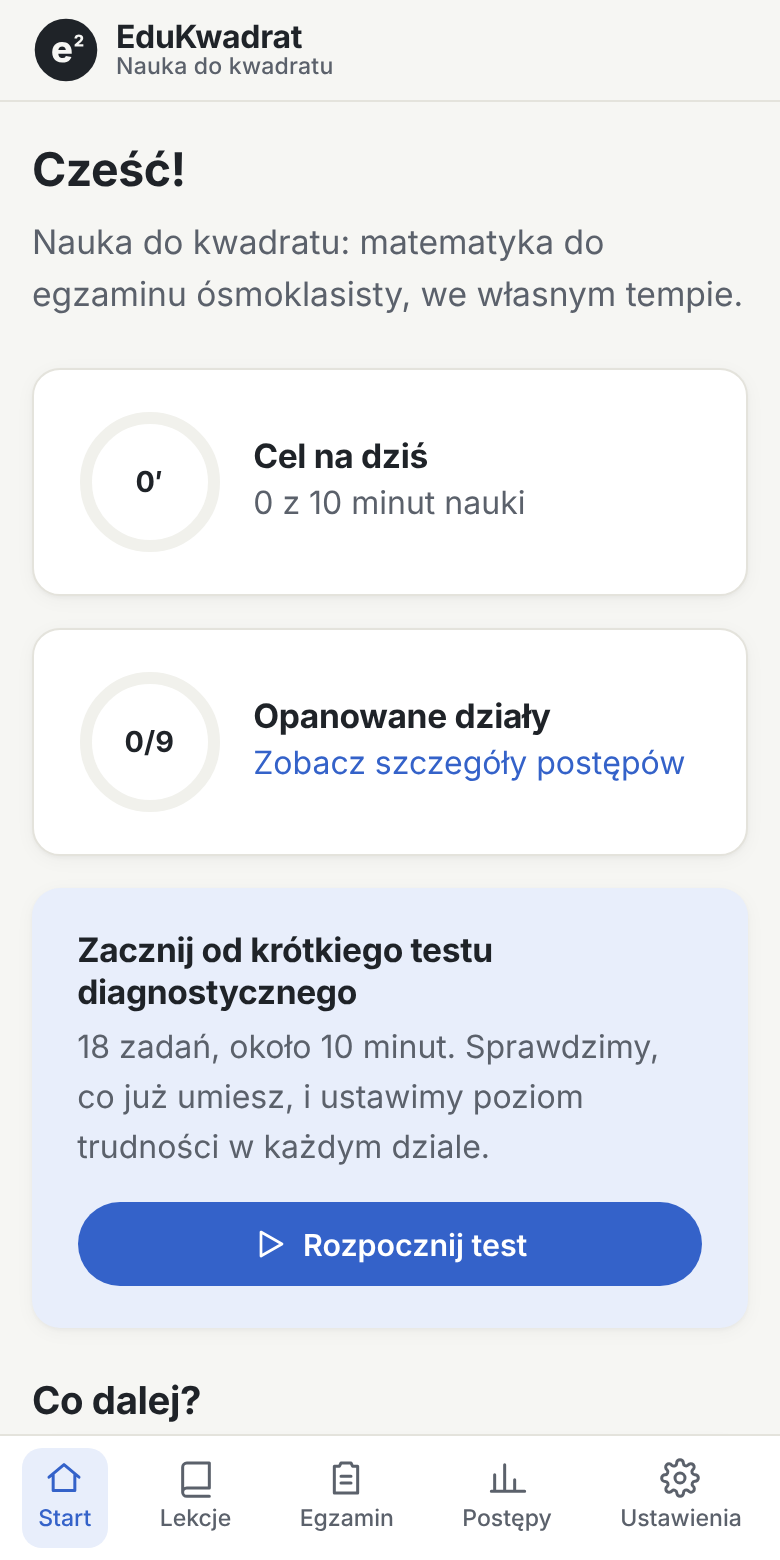
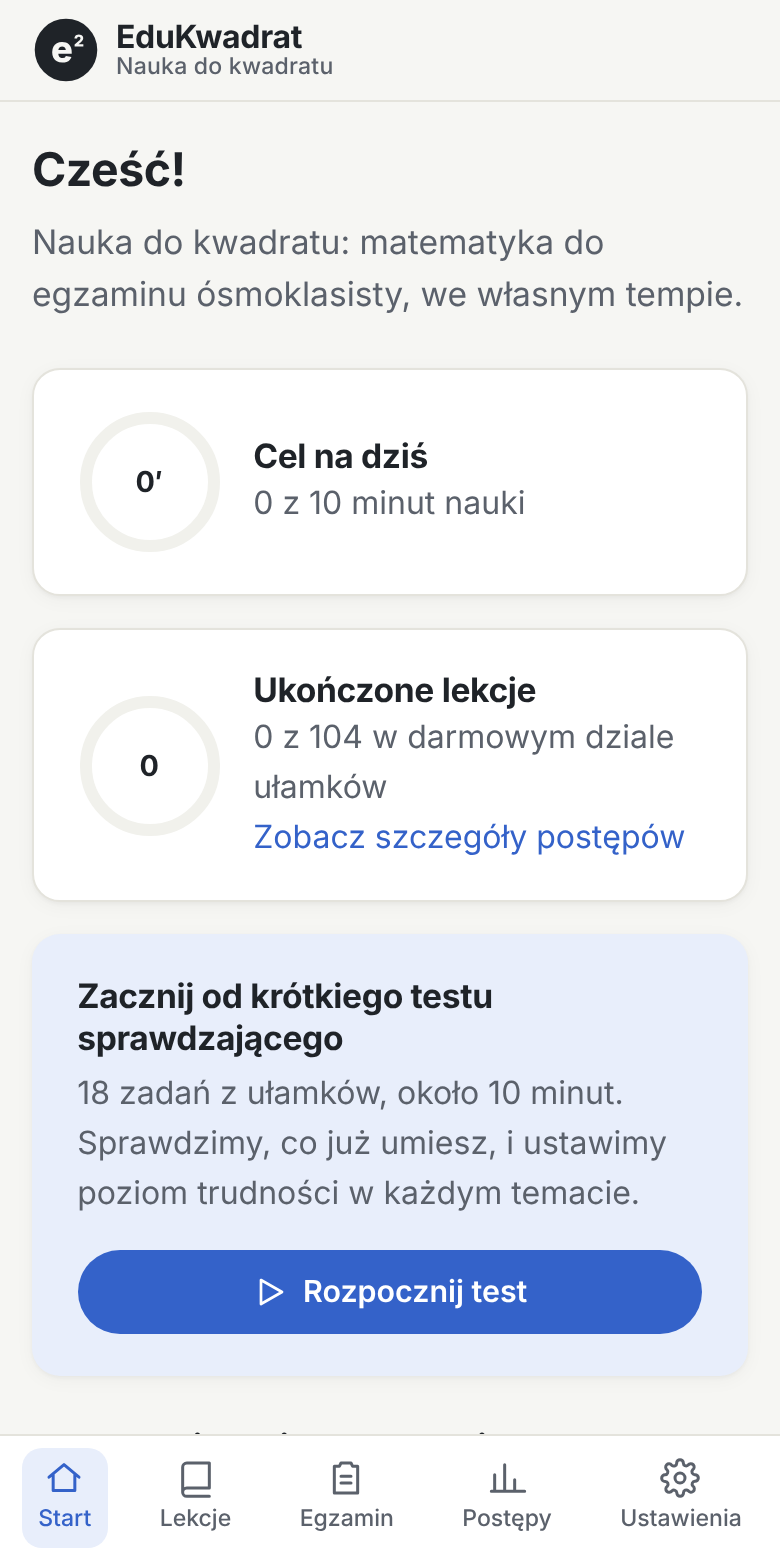
Drobne korekty: formularz zapisu bez pytania o kłopot, numeracja działów, „test sprawdzający”
- usunięte pole „Z czym dziecko ma największy kłopot?” (strona, strona.js, zapis.php, polityka)
- druga lista działów numerowana od 1
- „test diagnostyczny” zamieniony na „test sprawdzający” (strona, aplikacja, odznaka, README, zrzut ekranu)
- karta testu z powrotem nad listą działów na ekranie Start

Claude-Session: https://claude.ai/code/session_0163Z8QpDp9crVsGoLsC9bDR

diff --git a/landing/index.html b/landing/index.html
@@ -414,7 +414,7 @@ table.compare { width: 100%; min-width: 560px; border-collapse: collapse; font-v
       </div>
       <figure class="shot" style="margin:0">
         <div class="phone">
-          <img src="img/ekran-start.png" width="780" height="1560" alt="Ekran startowy EduKwadratu: cel na dziś 10 minut nauki, licznik opanowanych działów 0 z 9 i zaproszenie do testu diagnostycznego.">
+          <img src="img/ekran-start.png" width="780" height="1560" alt="Ekran startowy EduKwadratu: cel na dziś 10 minut nauki, licznik ukończonych lekcji i zaproszenie do krótkiego testu sprawdzającego.">
         </div>
         <figcaption class="note note-right" aria-hidden="true">
           <svg viewBox="0 0 64 40"><path d="M4 8c18 0 34 6 50 22"/><path d="M44 30l10 0 0-10"/></svg>
@@ -492,20 +492,20 @@ table.compare { width: 100%; min-width: 560px; border-collapse: collapse; font-v
             <li><span class="n">8.</span><span class="t">Kolejność działań</span><span class="dots"></span></li>
             <li><span class="n">9.</span><span class="t">Zadania tekstowe</span><span class="dots"></span></li>
           </ol>
-          <p class="toc-note">Do tego test diagnostyczny i próbny arkusz w stylu egzaminu.</p>
+          <p class="toc-note">Do tego test sprawdzający i próbny arkusz w stylu egzaminu.</p>
         </div>
         <div class="toc">
           <h3><span>Pozostałe działy</span><span class="s s-ready">gotowe</span></h3>
           <ol>
-            <li><span class="n">10.</span><span class="t">Liczby i działania, podzielność</span><span class="dots"></span></li>
-            <li><span class="n">11.</span><span class="t">Procenty</span><span class="dots"></span></li>
-            <li><span class="n">12.</span><span class="t">Potęgi i pierwiastki</span><span class="dots"></span></li>
-            <li><span class="n">13.</span><span class="t">Wyrażenia algebraiczne</span><span class="dots"></span></li>
-            <li><span class="n">14.</span><span class="t">Równania, proporcje, prędkość</span><span class="dots"></span></li>
-            <li><span class="n">15.</span><span class="t">Geometria płaska</span><span class="dots"></span></li>
-            <li><span class="n">16.</span><span class="t">Pitagoras i układ współrzędnych</span><span class="dots"></span></li>
-            <li><span class="n">17.</span><span class="t">Graniastosłupy i ostrosłupy</span><span class="dots"></span></li>
-            <li><span class="n">18.</span><span class="t">Statystyka i prawdopodobieństwo</span><span class="dots"></span></li>
+            <li><span class="n">1.</span><span class="t">Liczby i działania, podzielność</span><span class="dots"></span></li>
+            <li><span class="n">2.</span><span class="t">Procenty</span><span class="dots"></span></li>
+            <li><span class="n">3.</span><span class="t">Potęgi i pierwiastki</span><span class="dots"></span></li>
+            <li><span class="n">4.</span><span class="t">Wyrażenia algebraiczne</span><span class="dots"></span></li>
+            <li><span class="n">5.</span><span class="t">Równania, proporcje, prędkość</span><span class="dots"></span></li>
+            <li><span class="n">6.</span><span class="t">Geometria płaska</span><span class="dots"></span></li>
+            <li><span class="n">7.</span><span class="t">Pitagoras i układ współrzędnych</span><span class="dots"></span></li>
+            <li><span class="n">8.</span><span class="t">Graniastosłupy i ostrosłupy</span><span class="dots"></span></li>
+            <li><span class="n">9.</span><span class="t">Statystyka i prawdopodobieństwo</span><span class="dots"></span></li>
             <li><span class="n">+</span><span class="t">Konto i postępy na każdym urządzeniu</span><span class="dots"></span><span class="s s-soon">w przygotowaniu</span></li>
           </ol>
         </div>
@@ -559,18 +559,6 @@ table.compare { width: 100%; min-width: 560px; border-collapse: collapse; font-v
         <div class="field">
           <label for="email">Twój e-mail</label>
           <input id="email" name="email" type="email" autocomplete="email" inputmode="email" required placeholder="imie@przyklad.pl">
-        </div>
-        <div class="field">
-          <label for="topic">Z czym dziecko ma największy kłopot?</label>
-          <select id="topic" name="topic">
-            <option value="">Wybierz (nieobowiązkowe)</option>
-            <option>Ułamki</option>
-            <option>Procenty</option>
-            <option>Równania i wyrażenia</option>
-            <option>Geometria</option>
-            <option>Zadania tekstowe</option>
-            <option>Wszystko po trochu</option>
-          </select>
         </div>
         <label class="check" for="consent">
           <input id="consent" name="consent" type="checkbox" required>

diff --git a/src/screens/Home.tsx b/src/screens/Home.tsx
@@ -61,6 +61,21 @@ export function Home() {
         </Card>
       </div>
 
+      {!progress.diagnosticDone && (
+        <Card className="callout">
+          <div className="callout-icon">
+            <Icon name="compass" size={26} />
+          </div>
+          <div className="callout-body">
+            <h3>Zacznij od krótkiego testu sprawdzającego</h3>
+            <p className="muted">18 zadań z ułamków, około 10 minut. Sprawdzimy, co już umiesz, i ustawimy poziom trudności w każdym temacie.</p>
+          </div>
+          <Button variant="primary" href={href.diagnostic} icon="play">
+            Rozpocznij test
+          </Button>
+        </Card>
+      )}
+
       <section>
         <h2>Wszystkie działy egzaminu</h2>
         <div className="zone-grid">
@@ -101,21 +116,6 @@ export function Home() {
           })}
         </div>
       </section>
-
-      {!progress.diagnosticDone && (
-        <Card className="callout">
-          <div className="callout-icon">
-            <Icon name="compass" size={26} />
-          </div>
-          <div className="callout-body">
-            <h3>Ułamki: zacznij od krótkiego testu</h3>
-            <p className="muted">18 zadań, około 10 minut. Sprawdzimy, co już umiesz, i ustawimy poziom trudności w każdym dziale.</p>
-          </div>
-          <Button variant="primary" href={href.diagnostic} icon="play">
-            Rozpocznij test
-          </Button>
-        </Card>
-      )}
 
       <section>
         <h2>Co dalej w ułamkach?</h2>

diff --git a/src/state/badges.ts b/src/state/badges.ts
@@ -5,7 +5,7 @@ export type Badge = { id: string; icon: string; name: string; description: strin
 
 export const BADGES: Badge[] = [
   { id: 'first-step', icon: '🌱', name: 'Pierwszy krok', description: 'Rozwiąż pierwsze zadanie.' },
-  { id: 'diagnostic', icon: '🧭', name: 'Znam swój start', description: 'Ukończ test diagnostyczny.' },
+  { id: 'diagnostic', icon: '🧭', name: 'Znam swój start', description: 'Ukończ test sprawdzający.' },
   { id: 'theory-3', icon: '📖', name: 'Czytelnik', description: 'Przeczytaj teorię z trzech działów.' },
   { id: 'goal', icon: '🎯', name: 'Cel dnia', description: 'Osiągnij dzienny cel nauki.' },
   { id: 'days-5', icon: '📅', name: 'Systematyczność', description: 'Ucz się w 5 różnych dniach (nie muszą być pod rząd).' },

diff --git a/landing/polityka-prywatnosci.html b/landing/polityka-prywatnosci.html
@@ -28,7 +28,7 @@
       <tbody>
         <tr>
           <td>Zapis na przedsprzedaż (formularz na stronie)</td>
-          <td>adres e-mail; opcjonalnie dział, z którym dziecko ma kłopot</td>
+          <td>adres e-mail</td>
           <td>wysłanie e-maila z linkiem potwierdzającym zapis, a po potwierdzeniu jednej wiadomości o starcie pełnej wersji z linkiem do zakupu; zgoda (art. 6 ust. 1 lit. a RODO) oraz zgoda na otrzymywanie informacji handlowej drogą elektroniczną</td>
           <td>do wysłania tej wiadomości, nie dłużej niż do 31 maja 2027 r., albo do wycofania zgody, jeśli nastąpi wcześniej; adres niepotwierdzony usuwamy automatycznie po 7 dniach</td>
         </tr>

diff --git a/src/screens/Diagnostic.tsx b/src/screens/Diagnostic.tsx
@@ -81,7 +81,7 @@ export function Diagnostic() {
     return (
       <div className="page">
         <header className="page-head">
-          <h1>Test diagnostyczny</h1>
+          <h1>Test sprawdzający</h1>
           <p className="lead">Sprawdźmy, od czego zacząć.</p>
         </header>
         <Card>
@@ -143,7 +143,7 @@ export function Diagnostic() {
     <div className="page practice">
       <div className="practice-head">
         <div className="practice-title">
-          <h1>Test diagnostyczny</h1>
+          <h1>Test sprawdzający</h1>
         </div>
         <div className="session-progress">
           <div className="session-track">

diff --git a/landing/strona.js b/landing/strona.js
@@ -57,7 +57,7 @@
     fetch(FORM_ENDPOINT, {
       method: 'POST',
       headers: { 'Content-Type': 'application/json', 'Accept': 'application/json' },
-      body: JSON.stringify({ email: email, topic: form.topic.value, consent: true, strona: form.strona.value })
+      body: JSON.stringify({ email: email, consent: true, strona: form.strona.value })
     }).then(function (r) {
       return r.json().catch(function () { return {}; }).then(function (d) {
         if (!r.ok || !d.ok) { say(d.wiadomosc || 'Nie udało się zapisać. Spróbuj jeszcze raz za kilka minut.', 'err'); return; }

diff --git a/src/content/tasks/index.ts b/src/content/tasks/index.ts
@@ -104,7 +104,7 @@ export function toChoice(task: Task, rng: Rng): Task | null {
   };
 }
 
-/** Test diagnostyczny: po 2 zadania z każdego działu (poziom 1 i 2). */
+/** Test sprawdzający: po 2 zadania z każdego działu (poziom 1 i 2). */
 export function buildDiagnostic(rng: Rng): Task[] {
   return ALL_TOPICS.flatMap((t) => [generateTask(t, 1, rng), generateTask(t, 2, rng)]);
 }

diff --git a/deploy/zapis.php b/deploy/zapis.php
@@ -2,7 +2,7 @@
 /**
  * EduKwadrat – zapis na przedsprzedaż (PHP 7.4+, bez bazy danych).
  *
- *   POST zapis.php                  zapis: {email, topic, consent, strona(pułapka)} → JSON
+ *   POST zapis.php                  zapis: {email, consent, strona(pułapka)} → JSON
  *   GET  zapis.php?potwierdz=TOKEN  strona z przyciskiem „Potwierdzam” (link z e-maila)
  *   GET  zapis.php?wypisz=TOKEN     strona z przyciskiem „Wypisz mnie”
  *   POST zapis.php?potwierdz|wypisz wykonanie (token w polu formularza)
@@ -23,7 +23,6 @@ $cfg = require __DIR__ . '/zapis-ustawienia.php';
 $DIR = __DIR__ . '/dane';
 $PLIK = $DIR . '/zapisy.php';
 $LIMITY = $DIR . '/limity.php';
-const TEMATY = ['', 'Ułamki', 'Procenty', 'Równania i wyrażenia', 'Geometria', 'Zadania tekstowe', 'Wszystko po trochu'];
 const OCZEKUJE_DNI = 7;
 const STRAZNIK = "<?php exit; ?>\n";
 
@@ -225,7 +224,7 @@ if (isset($_GET['potwierdz'])) {
                 $zapisy[$email]['status'] = 'potwierdzony';
                 $zapisy[$email]['potwierdzenie_ts'] = $z['potwierdzenie_ts'] ?? time();
                 $zapisy[$email]['potwierdzenie_ip'] = $z['potwierdzenie_ip'] ?? $ip;
-                return ['email' => (string) $email, 'nowy' => $nowy, 'temat' => $z['temat']];
+                return ['email' => (string) $email, 'nowy' => $nowy];
             }
         }
         return null;
@@ -234,7 +233,7 @@ if (isset($_GET['potwierdz'])) {
         strona_odp('Link wygasł', 'Ten link jest nieaktualny. Zapisz się ponownie na stronie – wyślemy nowy link.', $cfg, 404);
     }
     if ($wynik['nowy'] && $cfg['powiadomienia_na']) {
-        wyslij((string) $cfg['powiadomienia_na'], 'Nowy zapis na przedsprzedaż', "Adres: {$wynik['email']}\nTemat: " . ($wynik['temat'] ?: '–') . "\nData: " . date('Y-m-d H:i'), $cfg);
+        wyslij((string) $cfg['powiadomienia_na'], 'Nowy zapis na przedsprzedaż', "Adres: {$wynik['email']}\nData: " . date('Y-m-d H:i'), $cfg);
     }
     strona_odp('Zapis potwierdzony', 'Dziękujemy. Gdy ruszy pełna wersja EduKwadrat, wyślemy jeden e-mail z linkiem do zakupu w cenie 99 zł.', $cfg);
 }
@@ -290,12 +289,12 @@ if (isset($_GET['eksport'])) {
     header('Content-Disposition: attachment; filename="edukwadrat-zapisy-' . date('Y-m-d') . '.csv"');
     $out = fopen('php://output', 'w');
     fwrite($out, "\xEF\xBB\xBF"); // BOM – polskie znaki w Excelu
-    fputcsv($out, ['email', 'temat', 'zapis', 'potwierdzenie', 'ip_potwierdzenia', 'link_wypisania'], ';');
+    fputcsv($out, ['email', 'zapis', 'potwierdzenie', 'ip_potwierdzenia', 'link_wypisania'], ';');
     foreach ($zapisy as $email => $z) {
         if ($z['status'] !== 'potwierdzony') {
             continue;
         }
-        fputcsv($out, array_map('csv_bezp', [(string) $email, $z['temat'], date('Y-m-d H:i', $z['zapis_ts']), date('Y-m-d H:i', $z['potwierdzenie_ts']), $z['potwierdzenie_ip'], link_do($cfg, 'wypisz', $z['token'])]), ';');
+        fputcsv($out, array_map('csv_bezp', [(string) $email, date('Y-m-d H:i', $z['zapis_ts']), date('Y-m-d H:i', $z['potwierdzenie_ts']), $z['potwierdzenie_ip'], link_do($cfg, 'wypisz', $z['token'])]), ';');
     }
     exit;
 }
@@ -312,7 +311,6 @@ if (!is_array($wejscie)) {
     $wejscie = $_POST;
 }
 $email = strtolower(trim((string) ($wejscie['email'] ?? '')));
-$temat = (string) ($wejscie['topic'] ?? '');
 $zgoda = !empty($wejscie['consent']);
 $pulapka = trim((string) ($wejscie['strona'] ?? ''));
 
@@ -327,9 +325,6 @@ if (!filter_var($email, FILTER_VALIDATE_EMAIL) || strlen($email) > 254) {
 if (!$zgoda) {
     json_odp(400, ['ok' => false, 'wiadomosc' => 'Zaznacz zgodę, żebyśmy mogli wysłać Ci e-mail na start.']);
 }
-if (!in_array($temat, TEMATY, true)) {
-    $temat = '';
-}
 
 // Limit prób z jednego adresu IP
 if (!w_limicie($LIMITY, 'zapis:' . $ip, (int) $cfg['limit_na_godzine'], 3600)) {
@@ -337,7 +332,7 @@ if (!w_limicie($LIMITY, 'zapis:' . $ip, (int) $cfg['limit_na_godzine'], 3600)) {
 }
 
 // Zapis albo ponowne wysłanie linku (bez zdradzania, czy adres już jest na liście)
-$doWyslania = zmien_plik($PLIK, function (array &$zapisy) use ($email, $temat, $ip, $cfg) {
+$doWyslania = zmien_plik($PLIK, function (array &$zapisy) use ($email, $ip, $cfg) {
     sprzataj($zapisy, $cfg);
     if (isset($zapisy[$email]) && $zapisy[$email]['status'] === 'potwierdzony') {
         return null;
@@ -345,7 +340,6 @@ $doWyslania = zmien_plik($PLIK, function (array &$zapisy) use ($email, $temat, $
     $token = $zapisy[$email]['token'] ?? bin2hex(random_bytes(16));
     $zapisy[$email] = [
         'status' => 'oczekuje',
-        'temat' => $temat,
         'token' => $token,
         'zapis_ts' => $zapisy[$email]['zapis_ts'] ?? time(),
         'zapis_ip' => $ip,

diff --git a/README.md b/README.md
@@ -73,7 +73,7 @@ Ekran „Moja lekcja” (Lekcje → Moja lekcja). Uczeń wpisuje temat, wybiera 
 | **Laboratoria w teorii** | 7 interaktywnych modeli z przyciskami +/−: budowanie ułamka (pasek + oś + odczyt), ułamki równe, wyłączanie całości, porównywanie, dodawanie na pasku, mnożenie na modelu prostokątnym, rozwinięcie dziesiętne (z siatką 10×10). |
 | **Klawiatura ułamków** | Ekranowa klawiatura z „/”, spacją (liczby mieszane), przecinkiem i minusem – automatycznie na telefonach. Delikatne wibracje po odpowiedzi. |
 | **Pomoc** | Kolejne podpowiedzi, tryb **krok po kroku**, pełne rozwiązanie, komunikaty dla typowych błędów (np. dodanie mianowników). |
-| **Test diagnostyczny** | 18 zadań (po 2 z działu) – ustawia startowy poziom w każdym dziale. |
+| **Test sprawdzający** | 18 zadań (po 2 z działu) – ustawia startowy poziom w każdym dziale. |
 | **Próbny arkusz** | 10 zadań zamkniętych + 2 prawda/fałsz + 3 otwarte, limit czasu, punktacja, raport z działami do powtórki i przeglądem rozwiązań. |
 | **Postępy** | Opanowanie 0–100% w każdym dziale (🔴 do powtórki < 50%, 🟡 w trakcie, 🟢 opanowane ≥ 85%), powtórki w odstępach, najczęstsze błędy, kalendarz nauki, historia arkuszy. |
 | **Motywacja** | Dzienny cel (minuty), kalendarz bez „tracenia serii”, odznaki. Każdy element można wyłączyć. |
